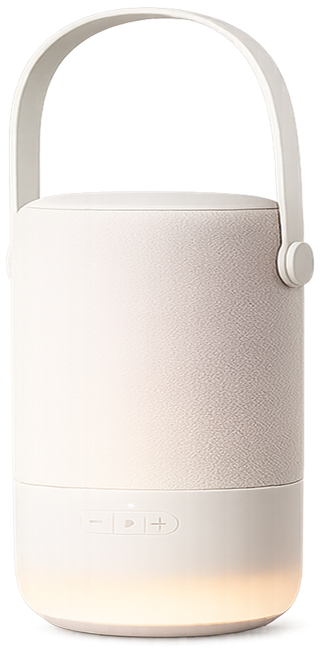
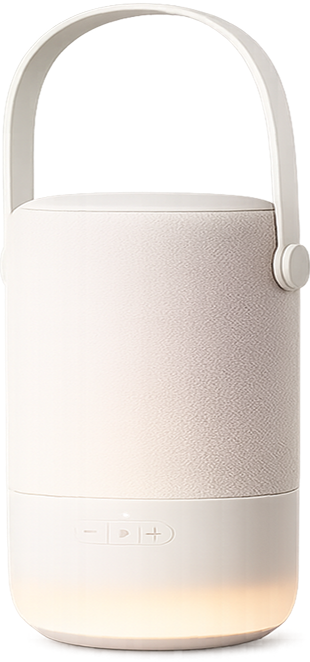
funktion i js der skifter billede når man trykker på en farve

diff --git a/js/script.js b/js/script.js
@@ -57,3 +57,17 @@ function showReview(review) {
 
   reviewList.insertAdjacentHTML("beforeend", html);
 }
+
+const speakerImage = document.querySelector("#speaker-image");
+const colors = document.querySelectorAll(".color");
+
+colors.forEach(color => {
+  color.addEventListener("click", () => {
+
+    const selectedColor = color.id;
+
+    speakerImage.src = `/img/speaker-${selectedColor}.png`;
+    speakerImage.alt = `speaker ${selectedColor}`;
+
+  });
+});

diff --git a/index.html b/index.html
@@ -37,7 +37,11 @@
 </div>
 <section id="info-section">
     <div id="color-select">
-        <img src="/img/speaker-white.png" alt="LUMINA One højtaler i hvid">
+        <img 
+        id="speaker-image"
+        src="/img/speaker-white.png" 
+        alt="LUMINA One højtaler i hvid"
+        >
 
         <div id="colors">
             <button class="color" id="red"></button>

diff --git a/css/style.css b/css/style.css
@@ -159,6 +159,7 @@
     height: 64px;
     aspect-ratio: 1/1;
     border-radius: 50%;
+    border: none;
 }
 
 #color-select #red {
